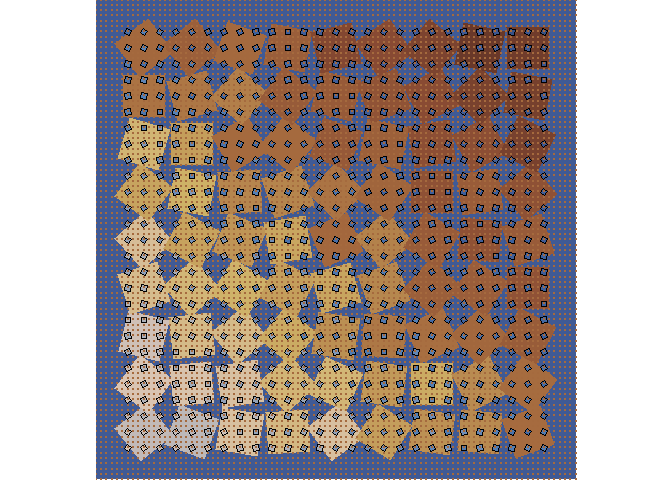
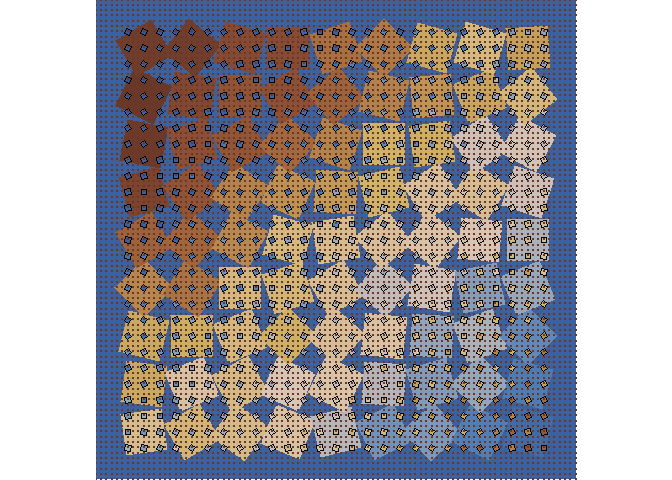
New outputs A grid inside a grid with PrettyCols

diff --git a/2022-01-17_A-grid-inside-a-grid-inside-a-grid/README.md b/2022-01-17_A-grid-inside-a-grid-inside-a-grid/README.md
@@ -28,6 +28,10 @@ library(MexBrewer) # Color Palettes Inspired by Works of Mexican Painters and Mu
 #> Registered S3 method overwritten by 'MexBrewer':
 #>   method        from     
 #>   print.palette MetBrewer
+library(PrettyCols) # Pretty Colour Palettes
+#> Registered S3 method overwritten by 'PrettyCols':
+#>   method        from     
+#>   print.palette MexBrewer
 ```
 
 ## Generate a random seed
@@ -81,15 +85,30 @@ palette will consist of as many colors as columns in the grid:
 ``` r
 set.seed(seed)
 
-color_edition <- sample(c("MetBrewer", "MexBrewer"), 1)
+# color_edition <- sample(c("MetBrewer", "MexBrewer"), 1)
+# 
+# if(color_edition == "MetBrewer"){
+#   col_palette_name <- sample(c("Archambault", "Austria", "Benedictus", "Cassatt1", "Cassatt2", "Cross", "Degas", "Demuth", "Derain", "Egypt", "Gauguin", "Greek", "Hiroshige", "Hokusai1", "Hokusai2", "Hokusai3", "Homer1", "Homer2", "Ingres", "Isfahan1", "Isfahan2", "Java", "Johnson", "Juarez", "Kandinsky", "Klimt", "Lakota", "Manet", "Moreau", "Morgenstern", "Nattier", "Navajo", "NewKingdom", "Nizami", "OKeeffe1", "OKeeffe2", "Paquin", "Peru1", "Peru2", "Pillement", "Pissaro", "Redon", "Renoir", "Signac", "Tam", "Tara", "Thomas", "Tiepolo", "Troy", "Tsimshian", "VanGogh1", "VanGogh2", "VanGogh3", "Veronese", "Wissing"), 1)
+#   col_palette <- met.brewer(col_palette_name)
+# }else{
+#   col_palette_name <- sample(c("Alacena", "Atentado", "Aurora", "Casita1", "Casita2", "Casita3", "Concha", "Frida", "Huida", "Maiz", "Ofrenda", "Revolucion", "Ronda", "Taurus1", "Taurus2", "Tierra", "Vendedora"), 1)
+#   col_palette <- mex.brewer(col_palette_name)
+# }
+# 
+
+color_edition <- sample(c("MetBrewer", "MexBrewer", "PrettyCols"), 1)
 
 if(color_edition == "MetBrewer"){
   col_palette_name <- sample(c("Archambault", "Austria", "Benedictus", "Cassatt1", "Cassatt2", "Cross", "Degas", "Demuth", "Derain", "Egypt", "Gauguin", "Greek", "Hiroshige", "Hokusai1", "Hokusai2", "Hokusai3", "Homer1", "Homer2", "Ingres", "Isfahan1", "Isfahan2", "Java", "Johnson", "Juarez", "Kandinsky", "Klimt", "Lakota", "Manet", "Moreau", "Morgenstern", "Nattier", "Navajo", "NewKingdom", "Nizami", "OKeeffe1", "OKeeffe2", "Paquin", "Peru1", "Peru2", "Pillement", "Pissaro", "Redon", "Renoir", "Signac", "Tam", "Tara", "Thomas", "Tiepolo", "Troy", "Tsimshian", "VanGogh1", "VanGogh2", "VanGogh3", "Veronese", "Wissing"), 1)
   col_palette <- met.brewer(col_palette_name)
-}else{
+}else if(color_edition == "MexBrewer"){
   col_palette_name <- sample(c("Alacena", "Atentado", "Aurora", "Casita1", "Casita2", "Casita3", "Concha", "Frida", "Huida", "Maiz", "Ofrenda", "Revolucion", "Ronda", "Taurus1", "Taurus2", "Tierra", "Vendedora"), 1)
   col_palette <- mex.brewer(col_palette_name)
+}else if(color_edition == "PrettyCols"){
+  col_palette_name <- sample(c("Blues", "Purples", "Tangerines", "Greens", "Pinks", "Teals", "PurpleGreens", "PinkGreens", "TangerineBlues", "PurpleTangerine", "PurplePinks", "TealGreens", "Bold", "Dark", "Light", "Neon", "Relax", "Autumn", "Winter", "Rainbow"), 1)
+  col_palette <- prettycols(col_palette_name)
 }
+
 
 if(sample(c(TRUE, FALSE), 1)){
   col_palette <- rev(col_palette)
@@ -136,4 +155,4 @@ ggsave(filename = glue::glue("outputs/grid-in-grid-{col_palette_name}-{seed}.png
        width = 7)
 ```
 
-<img src="outputs/grid-in-grid-Alacena-86774845.png" width="500px" />
+<img src="outputs/grid-in-grid-Alacena-40317848.png" width="500px" />
